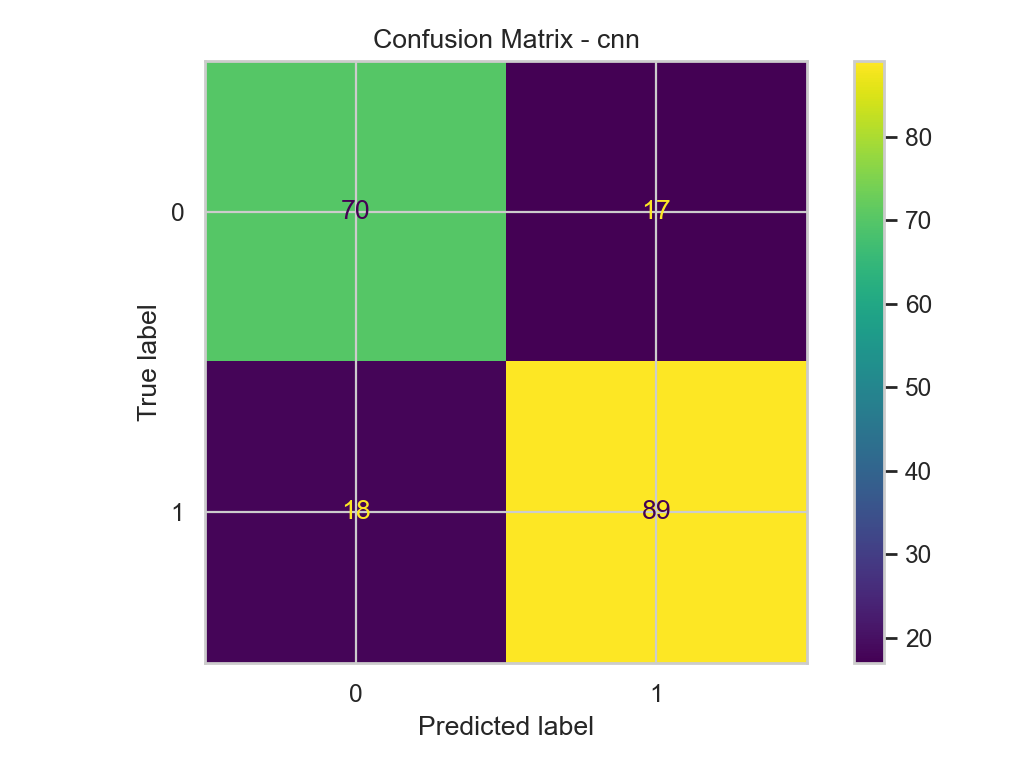
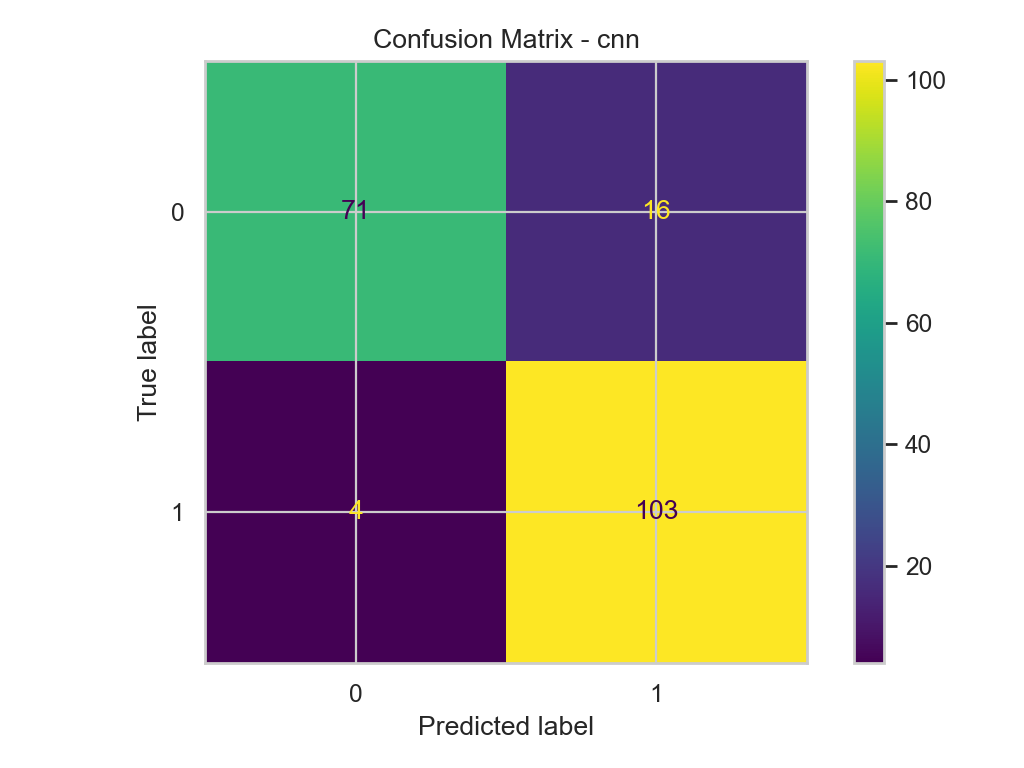
Update README for Python version compatibility, enhance virtual environment setup instructions, and improve dataset handling in training script. Update model comparison metrics and confusion matrix figures.

diff --git a/train_cnn.py b/train_cnn.py
@@ -6,6 +6,7 @@ import numpy as np
 import tensorflow as tf
 import keras
 from keras.applications import ResNet50
+from keras.applications.resnet50 import preprocess_input
 from keras.layers import Dense, GlobalAveragePooling2D, Dropout
 from keras.models import Model
 from sklearn.utils.class_weight import compute_class_weight
@@ -69,6 +70,7 @@ AUTOTUNE = tf.data.AUTOTUNE
 train_dataset = (
     train_dataset.cache()
     .map(lambda x, y: (augmentation(x, training=True), y), num_parallel_calls=AUTOTUNE)
+    .map(lambda x, y: (preprocess_input(x), y), num_parallel_calls=AUTOTUNE)
     .map(add_sample_weight, num_parallel_calls=AUTOTUNE)
     .prefetch(buffer_size=AUTOTUNE)
 )
@@ -83,7 +85,11 @@ val_dataset = keras.utils.image_dataset_from_directory(
     label_mode="binary",
     crop_to_aspect_ratio=True,
 )
-val_dataset = val_dataset.cache().prefetch(buffer_size=AUTOTUNE)
+val_dataset = (
+    val_dataset.cache()
+    .map(lambda x, y: (preprocess_input(x), y), num_parallel_calls=AUTOTUNE)
+    .prefetch(buffer_size=AUTOTUNE)
+)
 
 os.makedirs("saved_models", exist_ok=True)
 
@@ -180,4 +186,4 @@ history_phase2 = model.fit(
 )
 
 print("\nSaving the model (best weights already restored by EarlyStopping; checkpoint is best val)...")
-model.save("saved_models/ai_art_classifier_resnet_final.keras")
+model.save("saved_models/ai_art_classifier_resnet.keras")

diff --git a/README.md b/README.md
@@ -4,26 +4,42 @@ Classify images as real art vs. AI-generated art using a CNN, with feature-based
 
 ## Prerequisites
 
-- Python 3.9+ recommended
+- Python 3.10-3.12 recommended (TensorFlow compatibility)
 - A GPU is optional but speeds up CNN training
 
 ## 1. Clone and create a virtual environment
 
+Use Python 3.10 on Windows for best TensorFlow compatibility.
+
 ```bash
 cd ai-art-classifier
-python -m venv .venv
+py -0p
+py -3.10 -m venv .env
 ```
 
 **Activate the environment**
 
-- **Windows (PowerShell):** `.venv\Scripts\Activate.ps1`
-- **Windows (cmd):** `.venv\Scripts\activate.bat`
-- **macOS / Linux:** `source .venv/bin/activate`
+- **Windows (PowerShell):** `.env\Scripts\Activate.ps1`
+- **Windows (cmd):** `.env\Scripts\activate.bat`
+- **macOS / Linux:** `source .env/bin/activate`
+
+Then confirm Python points to 3.10:
+
+```bash
+python --version
+```
 
 ## 2. Install dependencies
 
 ```bash
+python -m pip install --upgrade pip
 pip install -r requirements.txt
+```
+
+Optional TensorFlow sanity check:
+
+```bash
+python -c "import tensorflow as tf; print(tf.__version__)"
 ```
 
 ## 3. Prepare your dataset
